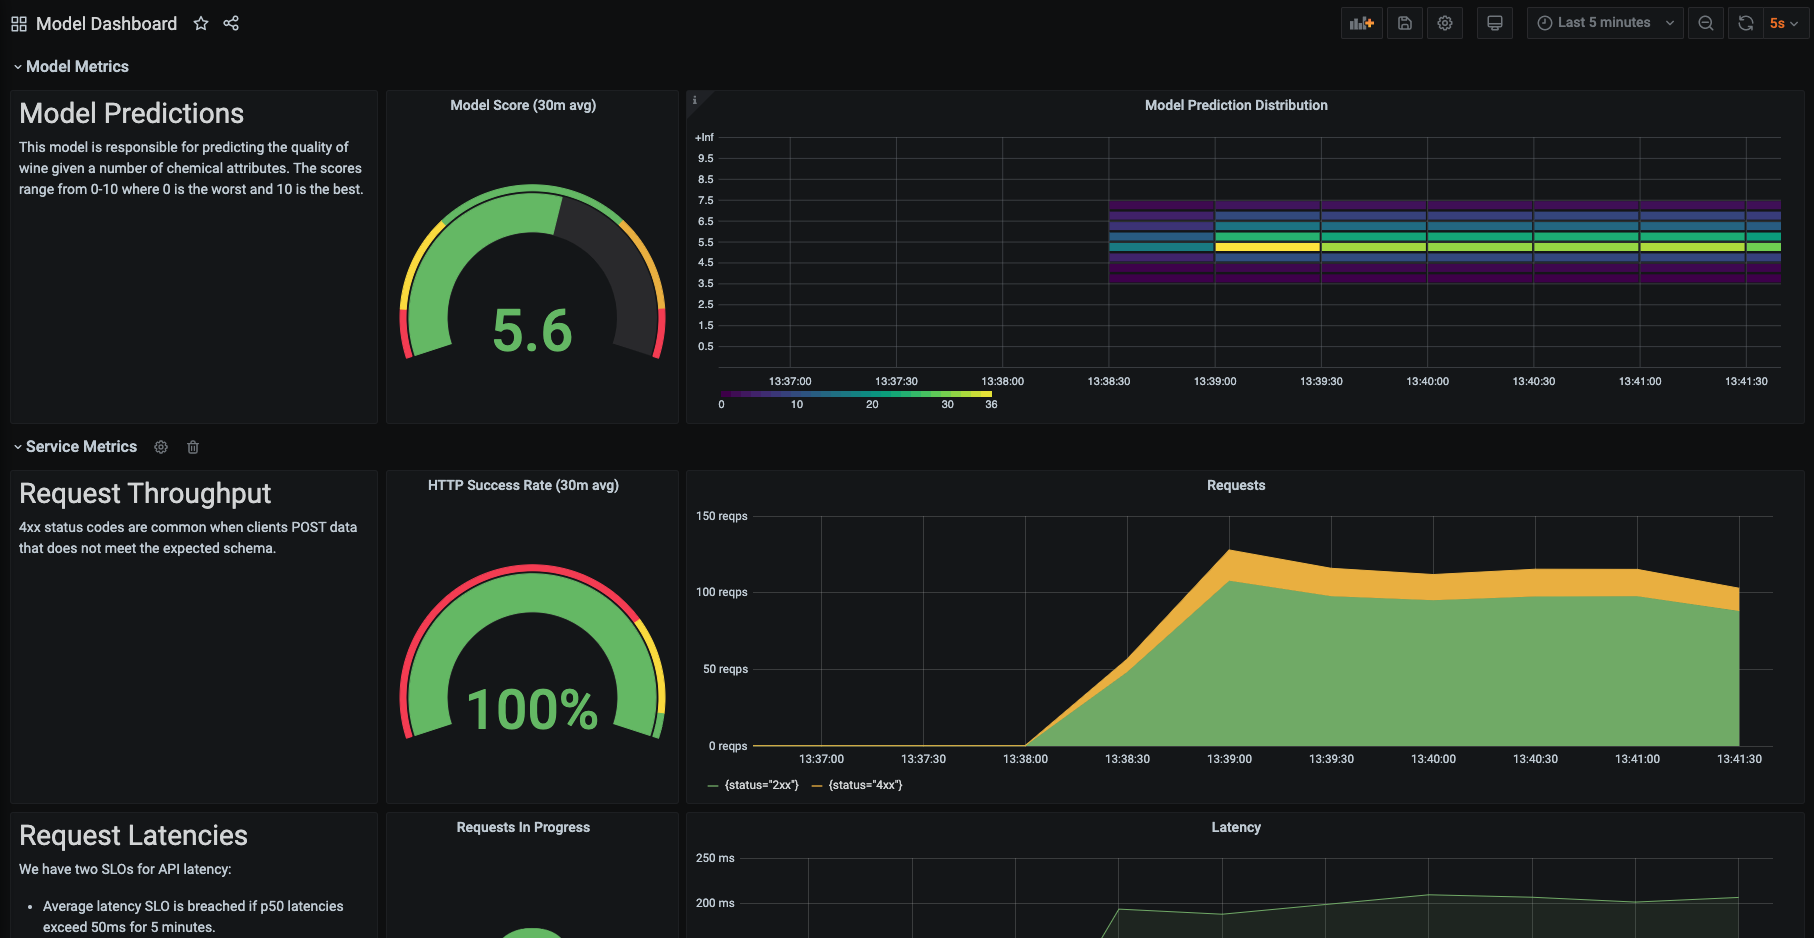
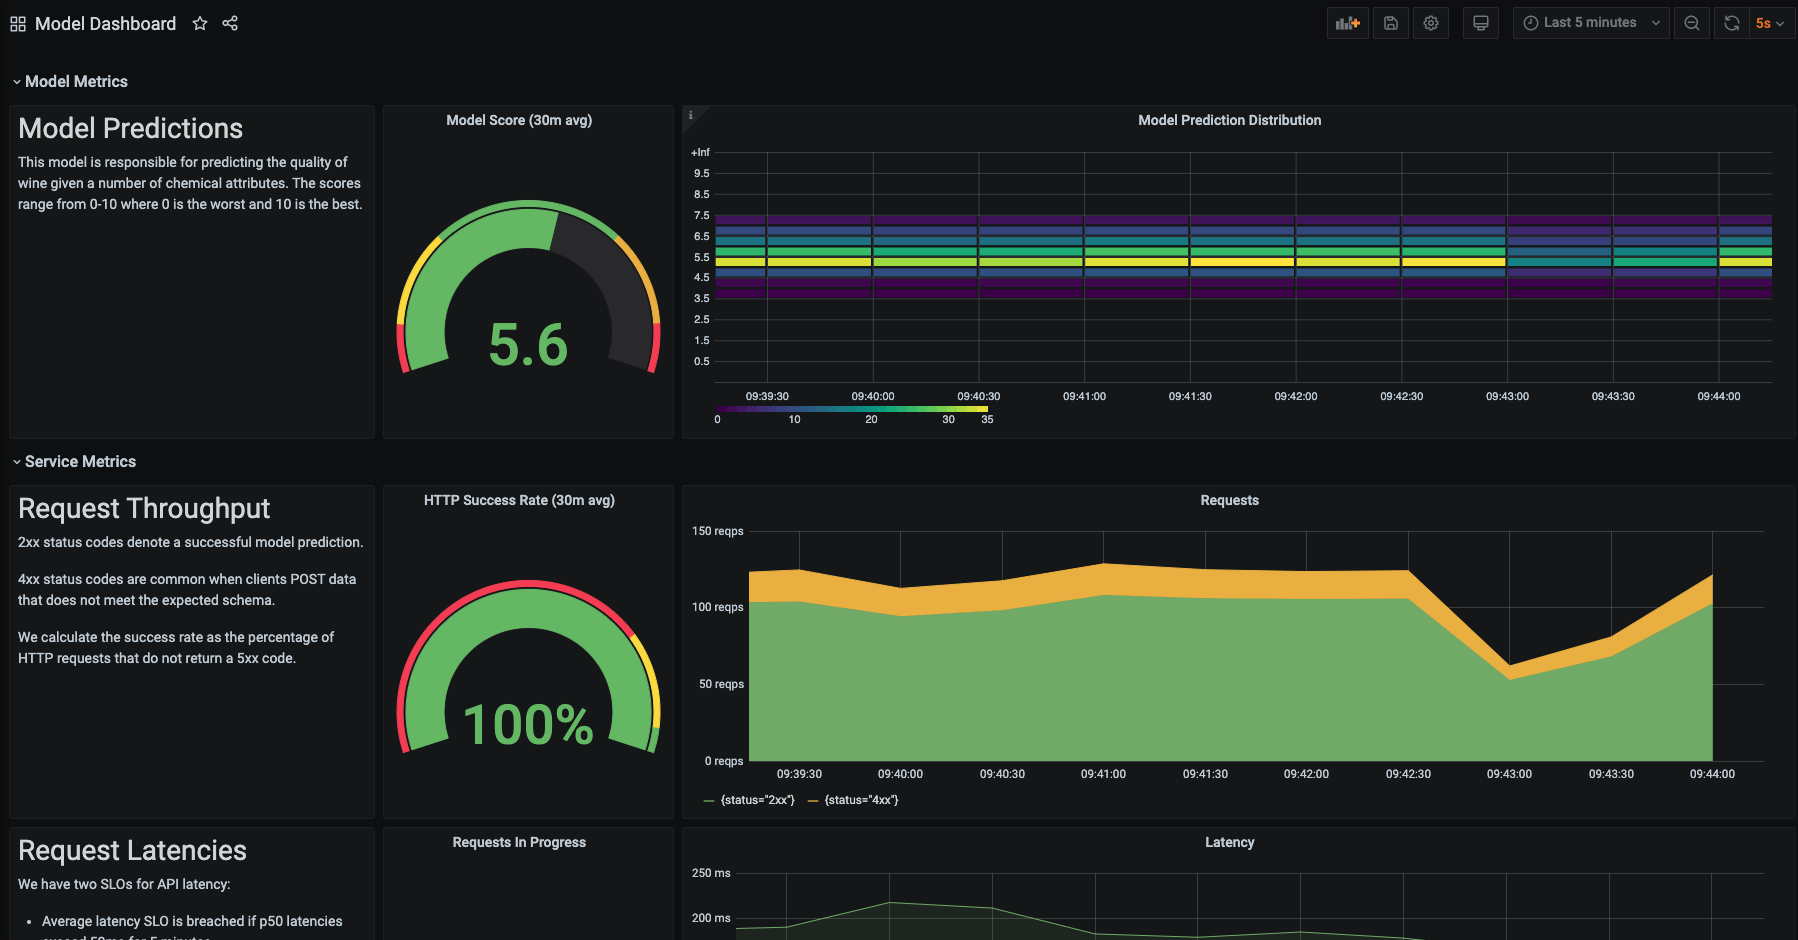
minor updates

diff --git a/model/app/monitoring.py b/model/app/monitoring.py
@@ -50,7 +50,7 @@ def regression_model_output(
 instrumentator.add(
     metrics.request_size(
         should_include_handler=True,
-        should_include_method=False,
+        should_include_method=True,
         should_include_status=True,
         metric_namespace=NAMESPACE,
         metric_subsystem=SUBSYSTEM,
@@ -59,7 +59,7 @@ instrumentator.add(
 instrumentator.add(
     metrics.response_size(
         should_include_handler=True,
-        should_include_method=False,
+        should_include_method=True,
         should_include_status=True,
         metric_namespace=NAMESPACE,
         metric_subsystem=SUBSYSTEM,
@@ -68,7 +68,7 @@ instrumentator.add(
 instrumentator.add(
     metrics.latency(
         should_include_handler=True,
-        should_include_method=False,
+        should_include_method=True,
         should_include_status=True,
         metric_namespace=NAMESPACE,
         metric_subsystem=SUBSYSTEM,
@@ -77,7 +77,7 @@ instrumentator.add(
 instrumentator.add(
     metrics.requests(
         should_include_handler=True,
-        should_include_method=False,
+        should_include_method=True,
         should_include_status=True,
         metric_namespace=NAMESPACE,
         metric_subsystem=SUBSYSTEM,

diff --git a/README.md b/README.md
@@ -44,7 +44,9 @@ kubectl port-forward svc/prometheus-stack-grafana 8000:80 -n monitoring
 
 ## Deploy a model
 
-This repository includes an example ML server defined in `model/`. You can launch the server on Kubernetes by running:
+This repository includes an example REST service which exposes an ML model trained on the [UCI Wine Quality dataset](https://archive.ics.uci.edu/ml/datasets/wine+quality). 
+
+You can launch the service on Kubernetes by running:
 
 ```
 kubectl apply -f kubernetes/models/
@@ -57,7 +59,7 @@ docker build -t wine-quality-model -f model/Dockerfile .
 docker run -d -p 3000:80 -e ENABLE_METRICS=true wine-quality-model
 ```
 
-> Note: In order for Prometheus to scrape metrics from this service, we need to define a `ServiceMonitor` resource. This resource must have the label `release: prometheus-stack` in order to be discovered. This is configured in the `Prometheus` resource spec via the `serviceMonitorSelector` attribute. 
+> **Note:** In order for Prometheus to scrape metrics from this service, we need to define a `ServiceMonitor` resource. This resource must have the label `release: prometheus-stack` in order to be discovered. This is configured in the `Prometheus` resource spec via the `serviceMonitorSelector` attribute. 
 
 You can verify the label required by running:
 ```
